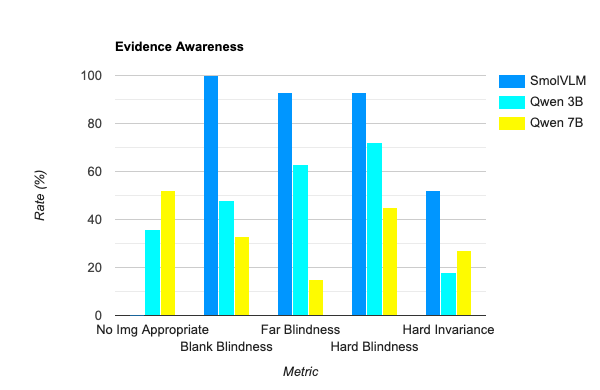
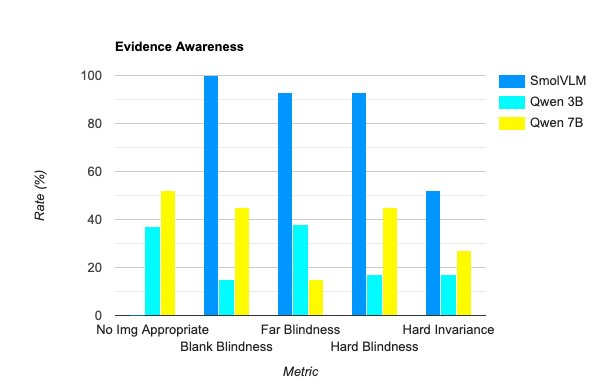
Fixed graph issues

diff --git a/reports/mmstar_quantitative_memo.md b/reports/mmstar_quantitative_memo.md
@@ -34,7 +34,7 @@ Given the generally high percent agreement and Cohen’s kappa for each of the f
 
 T3-A:
 | Model | Correct-Img Accuracy | No-Img Gold Match | Blank Gold Match | Far Gold Match | Hard Gold Match | Hard Gap |
-| --- | --- | --- | --- | --- | --- |
+| --- | --- | --- | --- | --- | --- | --- |
 | SmolVLM | 28.33% | 18.33% | 31.67% | 25.00% | 16.76% | 11.67% |
 | Qwen-3B | 46.67% | 15.00% | 38.33% | 16.67% | 16.67% | 30.00% |
 | Qwen-7B | 36.67% | 6.67% | 15.00% | 6.67% | 16.67% | 19.20% |
